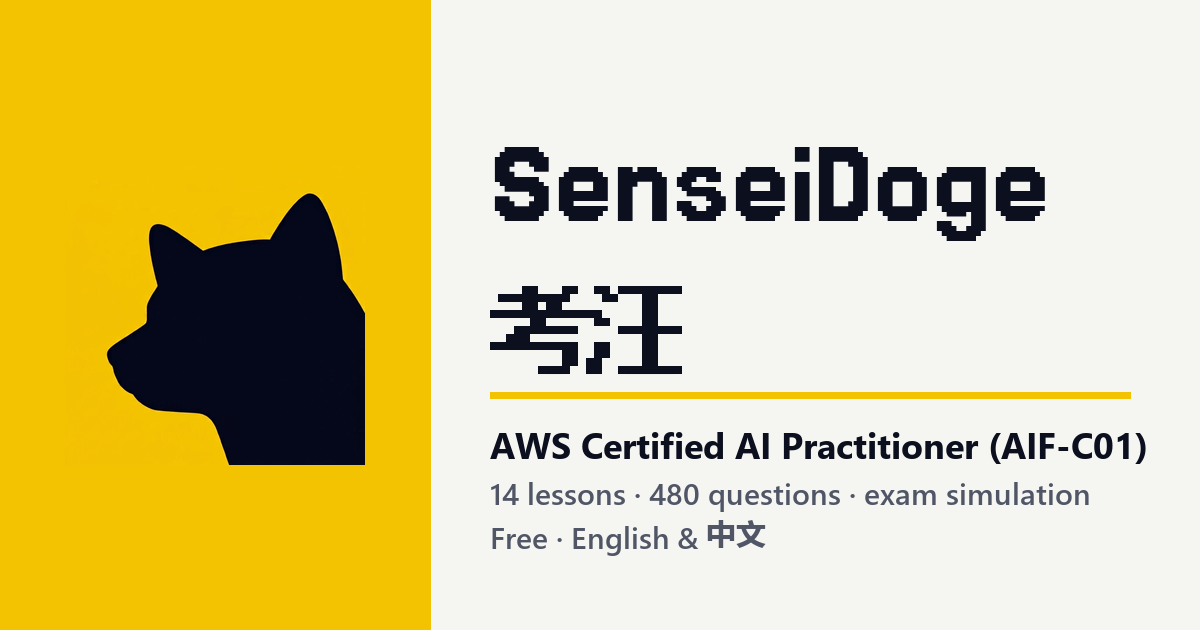
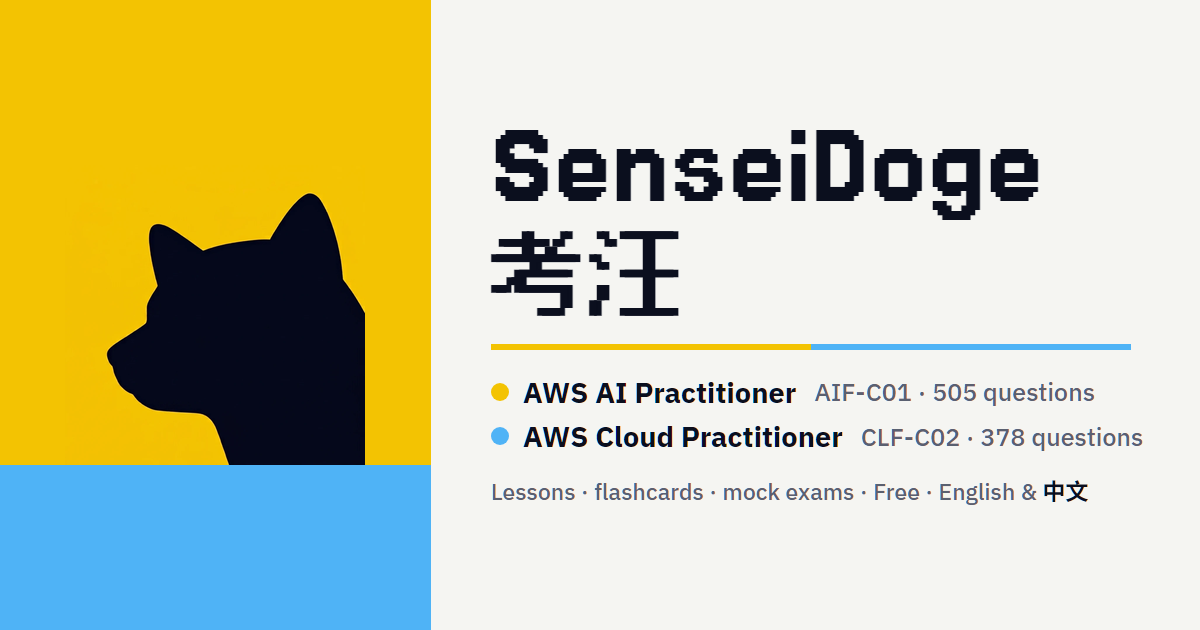
Link-preview image shows both exams
Doge panel splits yellow (AI Practitioner) over blue (Cloud Practitioner);
both exams listed with question counts. Image URL gets ?v=2.0 so social
sites refetch it. Card source kept in tools/og/.

Changed region(s): [[0.4008, 0.181, 0.9558, 0.8746], [0.0, 0.7238, 0.37, 1.0]]

diff --git a/tools/og/og.html b/tools/og/og.html
@@ -1,0 +1,29 @@
+<!doctype html>
+<!-- Link-preview card (src/assets/og.png). Render at 1200x630, e.g.: msedge --headless=new --window-size=1200,630 --force-device-scale-factor=1 --virtual-time-budget=8000 --allow-file-access-from-files --screenshot=og.png file:///.../tools/og/og.html -->
+<html><head><meta charset="utf-8">
+<link rel="stylesheet" href="https://fonts.googleapis.com/css2?family=IBM+Plex+Sans:wght@400;500;600;700&family=Noto+Sans+SC:wght@500;700&display=block">
+<link rel="stylesheet" href="https://fonts.googleapis.com/css2?family=Jersey+15&text=SenseiDoge&display=block">
+<style>
+@font-face{font-family:"Fusion Pixel 12";src:url(../../src/assets/brand-zh.woff2) format("woff2");font-display:block}
+html,body{margin:0;width:1200px;height:630px;overflow:hidden;background:#F5F5F2}
+.card{display:flex;width:1200px;height:630px}
+.panel{width:431px;height:630px;background:url(panel.png) no-repeat;flex:none}
+.r{padding:0 0 0 60px;display:flex;flex-direction:column;justify-content:center;color:#0B0F1E;font-family:"IBM Plex Sans","Noto Sans SC",sans-serif}
+.name{font:400 128px/0.92 "Jersey 15";letter-spacing:.01em;margin:0}
+.zh{font:400 92px/1 "Fusion Pixel 12";letter-spacing:6px;text-shadow:5px 0 0 currentColor;-webkit-font-smoothing:none;margin:6px 0 0}
+.rule{height:6px;width:640px;margin:28px 0 24px;background:linear-gradient(90deg,#F3C302 0 50%,#4FB3F6 50% 100%)}
+.ex{display:flex;align-items:center;gap:14px;font:700 29px/1.25 "IBM Plex Sans",sans-serif;margin:0 0 8px}
+.ex i{width:18px;height:18px;border-radius:50%;flex:none}
+.ex small{font:500 25px "IBM Plex Sans";color:#5A6070;margin-left:4px}
+.foot{font:500 23px/1.3 "IBM Plex Sans","Noto Sans SC";color:#5A6070;margin-top:14px}
+.foot b{font-family:"Noto Sans SC";font-weight:700;color:#0B0F1E}
+</style></head><body>
+<div class="card"><div class="panel"></div><div class="r">
+<p class="name">SenseiDoge</p>
+<p class="zh">考汪</p>
+<div class="rule"></div>
+<p class="ex"><i style="background:#F3C302"></i>AWS AI Practitioner <small>AIF-C01 · 505 questions</small></p>
+<p class="ex"><i style="background:#4FB3F6"></i>AWS Cloud Practitioner <small>CLF-C02 · 378 questions</small></p>
+<p class="foot">Lessons · flashcards · mock exams · Free · English &amp; <b>中文</b></p>
+</div></div>
+</body></html>

diff --git a/src/00_shell.html b/src/00_shell.html
@@ -5,7 +5,7 @@
 <meta property="og:title" content="SenseiDoge · 考汪: AWS AI Practitioner and Cloud Practitioner study app">
 <meta property="og:description" content="Lessons, practice questions, flashcards and full exam simulations for AIF-C01 (505 questions) and CLF-C02 (378 questions). Free, in English and 中文.">
 <meta property="og:url" content="https://senseidoge.vercel.app/">
-<meta property="og:image" content="https://senseidoge.vercel.app/og.png">
+<meta property="og:image" content="https://senseidoge.vercel.app/og.png?v=2.0">
 <meta property="og:image:width" content="1200">
 <meta property="og:image:height" content="630">
 <meta property="og:image:alt" content="SenseiDoge · 考汪, a study app for the AWS AI Practitioner and Cloud Practitioner exams">
